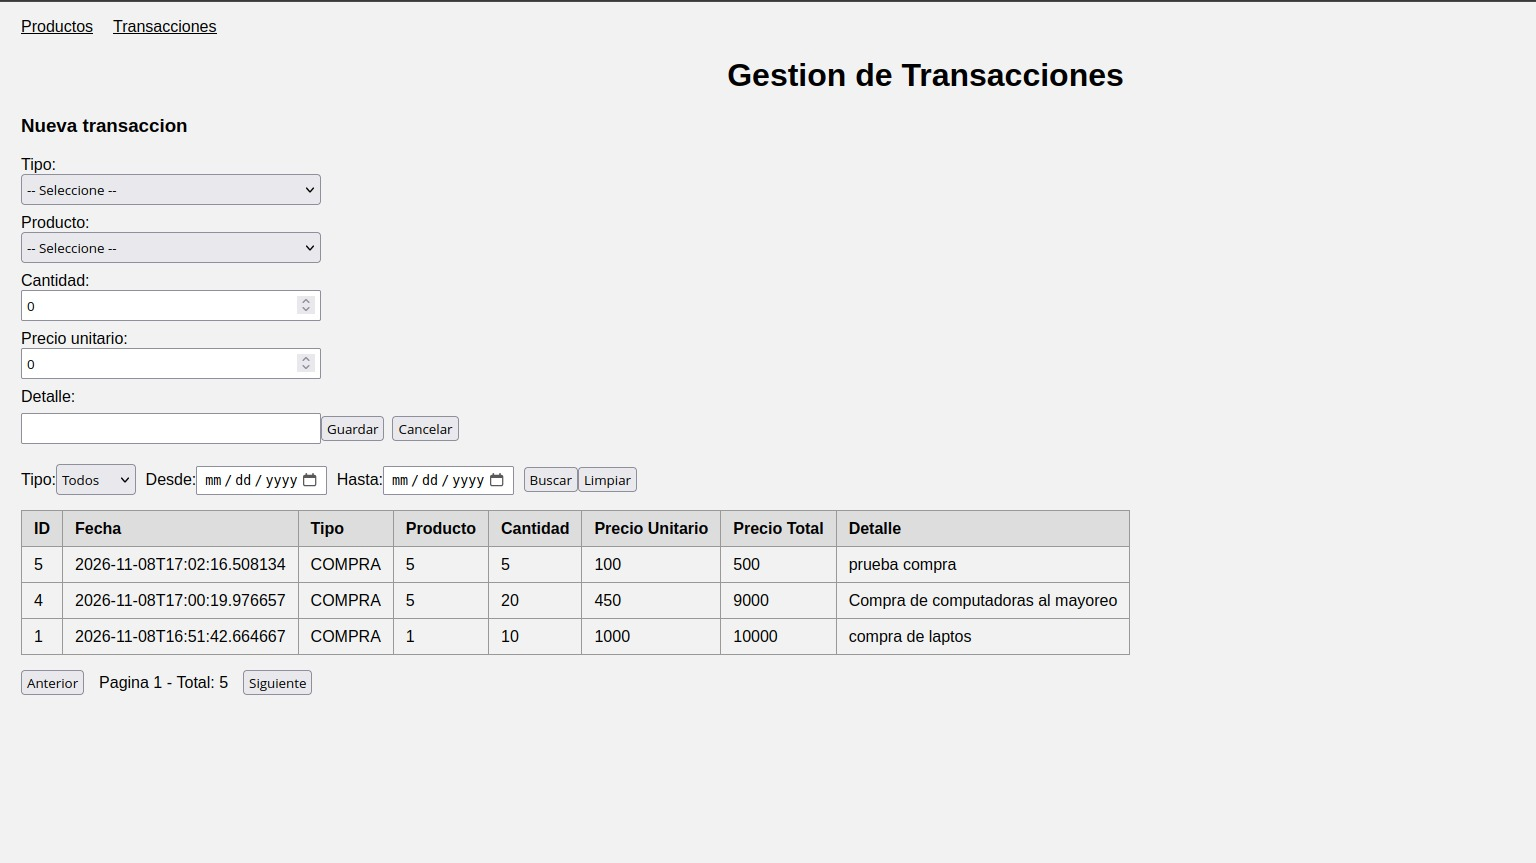
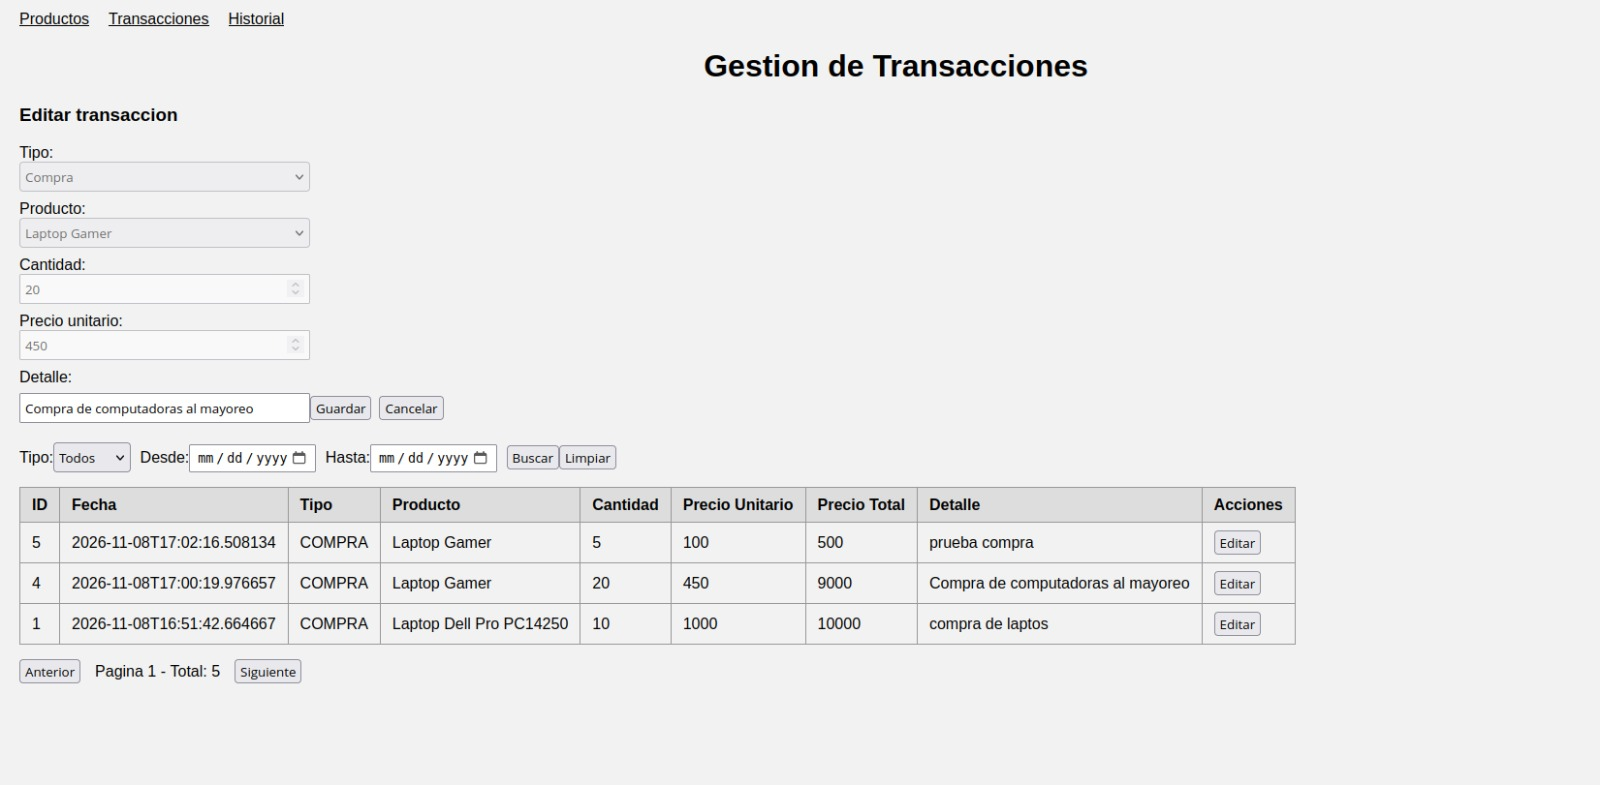
docs: evidencias y endpoints en el README

diff --git a/README.md b/README.md
@@ -92,11 +92,14 @@ ServicioTransacciones (puerto 5303):
 - GET    /api/transacciones
 - GET    /api/transacciones/{id}
 - POST   /api/transacciones
+- PUT    /api/transacciones/{id}
+- DELETE /api/transacciones/{id}
+- GET    /api/transacciones/historial/{productoId}
 
 ## Funcionalidades
 - CRUD de productos crear, listar, editar, eliminar
 - Registro de transacciones de compra y venta
-- Filtros dinamicos y paginacion en las dos pantallas productos y ventas
+- Filtros dinamicos y paginacion en las dos pantallas productos y transacciones
 - Validacion de stock, no se puede vender mas de lo disponible
 - Ajuste automatico del stock al registrar una transaccion
 - Mensajes de exito y error
@@ -120,6 +123,34 @@ ServicioProductos cada vez que se registra una compra o una venta.
 ## Evidencias
 Capturas de la aplicacion funcionando:
 
-![Pantalla de Productos](evidencias/productos.jpeg)
+Listado de productos con paginacion:
 
-![Pantalla de Transacciones](evidencias/transacciones.jpeg)
+![Listado de productos](evidencias/productos.jpeg)
+
+Listado de transacciones con paginacion:
+
+![Listado de transacciones](evidencias/transacciones.jpeg)
+
+Creacion de un producto:
+
+![Crear producto](evidencias/crear_producto.jpeg)
+
+Edicion de un producto:
+
+![Editar producto](evidencias/editar_producto.jpeg)
+
+Creacion de una transaccion:
+
+![Crear transaccion](evidencias/crear_transaccion.jpeg)
+
+Edicion de una transaccion:
+
+![Editar transaccion](evidencias/editar_transaccion.jpeg)
+
+Filtros dinamicos:
+
+![Filtros](evidencias/filtros.jpeg)
+
+Consulta del historial por producto:
+
+![Historial](evidencias/historial.jpeg)
